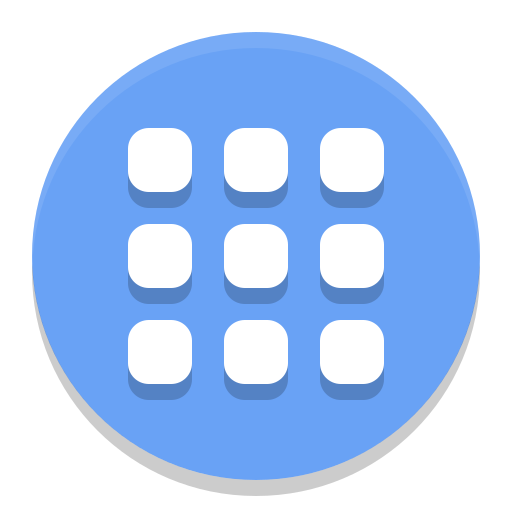
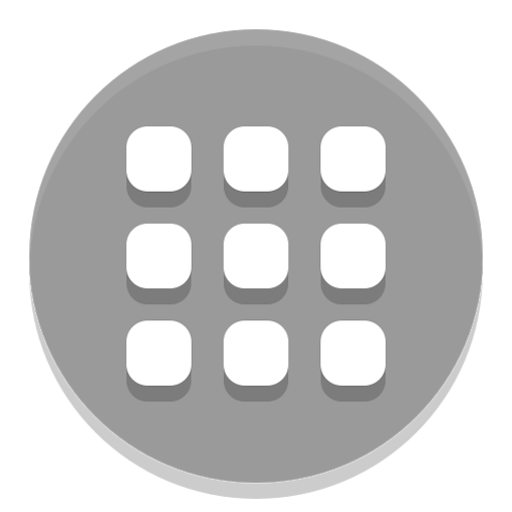
ui

diff --git a/views/partials/admin_nav.html b/views/partials/admin_nav.html
@@ -19,6 +19,17 @@
         </ul>
       </div>      -->
       <div class="dropdown col scrollto nav-link px-2 ps-4">
+        <img src="/img/apps.png" height="30px" class="dropdown-toggle" data-bs-toggle="dropdown" aria-expanded="false">
+      
+        <ul class="dropdown-menu dropright" style="width: fit-content;">
+          <li><span class="dropdown-item mid" ><span class="fw-bold">אפליקציות מש"ר</span></span></li>
+          <li><hr class="dropdown-divider"></li>
+          <li><a class="dropdown-item" href="/admin">מחפשים את המטמון <img src="/img/th.png" /></a></li>
+          <li><a class="dropdown-item" href="#">שיעורי תגבור <img src="/img/online.png" /></a></li>
+        </ul>
+      </div>
+
+      <div class="dropdown col scrollto nav-link px-2 ps-4">
             
         <img src="/img/usernav.png" height="30px" class="dropdown-toggle" data-bs-toggle="dropdown" aria-expanded="false">
       
